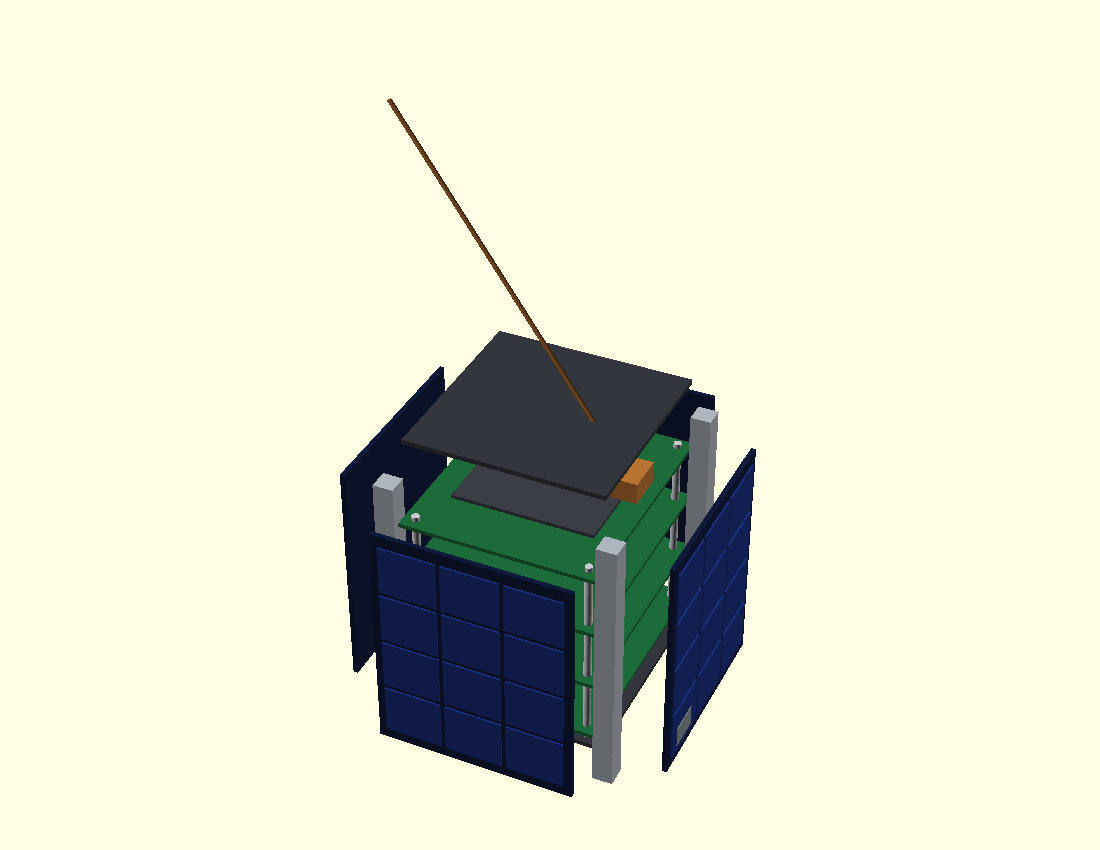
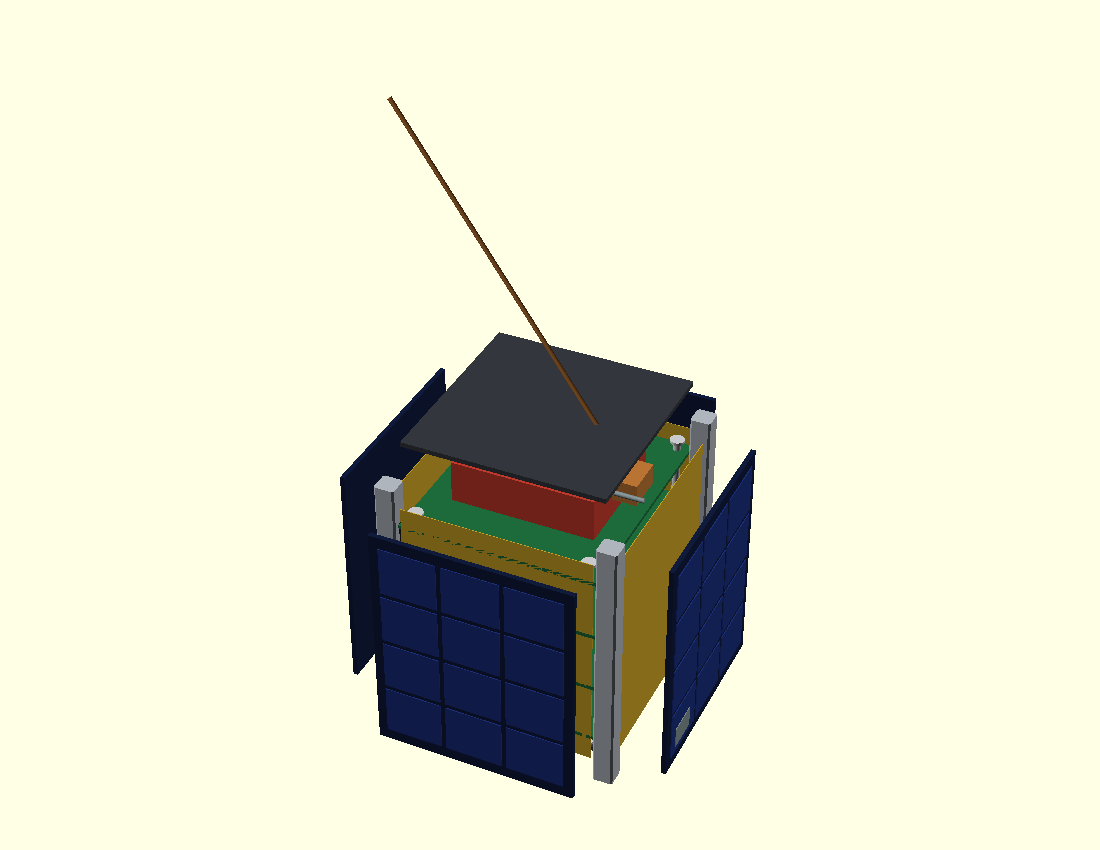
Make CAD mesh watertight and add detail
- overlaps + explicit union: 0 non-manifold edges, 0 degenerate triangles
- chamfered rails, screw heads, harness bundle, MLI liners, deployer hinge
- colour-coded subsystems and cutaway stack render
- cad/check_stl.py + make cad-check for reproducible mesh validation

diff --git a/cad/check_stl.py b/cad/check_stl.py
@@ -1,0 +1,73 @@
+#!/usr/bin/env python3
+"""Check that an ASCII STL is edge-manifold.
+
+Every undirected edge must be shared by exactly two triangles, and no
+triangle may be degenerate. This is the check that matters before printing
+or importing the mesh into a slicer.
+
+usage: check_stl.py file.stl [more.stl ...]
+"""
+
+from __future__ import annotations
+
+import sys
+from collections import Counter
+
+
+def load_ascii_stl(path: str) -> list[tuple[tuple[float, float, float], ...]]:
+    vertices: list[tuple[float, float, float]] = []
+    with open(path, encoding="ascii", errors="replace") as handle:
+        for line in handle:
+            stripped = line.lstrip()
+            if stripped.startswith("vertex"):
+                values = stripped.split()
+                vertices.append(
+                    (round(float(values[1]), 4),
+                     round(float(values[2]), 4),
+                     round(float(values[3]), 4))
+                )
+    if not vertices:
+        raise ValueError(f"{path}: no vertices (binary STL? export ASCII)")
+    return [tuple(vertices[i:i + 3]) for i in range(0, len(vertices), 3)]
+
+
+def check(path: str) -> bool:
+    triangles = load_ascii_stl(path)
+    edges: Counter[tuple[tuple[float, float, float],
+                          tuple[float, float, float]]] = Counter()
+    degenerate = 0
+
+    for tri in triangles:
+        if len(set(tri)) < 3:
+            degenerate += 1
+            continue
+        for a, b in ((0, 1), (1, 2), (2, 0)):
+            edges[tuple(sorted((tri[a], tri[b])))] += 1
+
+    bad = sum(1 for count in edges.values() if count != 2)
+
+    points = [vertex for tri in triangles for vertex in tri]
+    lo = [min(p[i] for p in points) for i in range(3)]
+    hi = [max(p[i] for p in points) for i in range(3)]
+
+    print(f"{path}:")
+    print(f"  triangles     : {len(triangles)}")
+    print(f"  non-manifold  : {bad} edge(s)")
+    print(f"  degenerate    : {degenerate} triangle(s)")
+    print(f"  bbox (mm)     : "
+          f"X {lo[0]:.2f}..{hi[0]:.2f}  "
+          f"Y {lo[1]:.2f}..{hi[1]:.2f}  "
+          f"Z {lo[2]:.2f}..{hi[2]:.2f}")
+
+    return bad == 0 and degenerate == 0
+
+
+def main(argv: list[str]) -> int:
+    if len(argv) < 2:
+        print(__doc__)
+        return 2
+    return 0 if all(check(path) for path in argv[1:]) else 1
+
+
+if __name__ == "__main__":
+    raise SystemExit(main(sys.argv))

diff --git a/cad/README.md b/cad/README.md
@@ -1,31 +1,33 @@
 # 1U CubeSat packaging model (OpenSCAD)
 
 Parametric mechanical envelope for the 1U architecture in the main README.
-It is a **packaging/visual model**, not a structural, thermal or tolerance
-analysis. Wall thicknesses and clearances are indicative.
+
+This is a **packaging/visual model**. Structural and thermal margins require
+FEA and a thermal solver; a CAD envelope cannot answer those questions.
 
 | Parameter | Value |
 |---|---|
 | Envelope | 100 × 100 mm body, 113.5 mm rail length (1U) |
-| Rails | 8.5 × 8.5 mm, four corners |
+| Rails | 8.5 × 8.5 mm, 0.8 mm chamfer, four corners |
 | Body | 100 mm cube between rails |
-| Panels | 83 mm wide, 2 mm thick, body-mounted cells |
+| Panels | 84 mm wide, 2 mm thick, body-mounted cells |
 | Board stack | 82 × 96 mm PCBs on M3 standoffs |
 | Units | `u = 1, 2, 3` (body and rails scale; stack stays 1U) |
 
 ## Views
 
-| Assembly | Exploded | Stack |
+| Assembly | Exploded | Stack cutaway |
 |---|---|---|
 | ![](cubesat.png) | ![](cubesat-exploded.png) | ![](cubesat-stack.png) |
 
-## Render
+## Render and verify
 
 ```bash
 # system package (recommended)
 sudo pacman -S openscad
 
 make cad            # cubesat.stl + cubesat-exploded.stl
+make cad-check      # manifold + degenerate-triangle verification
 make cad-preview    # PNGs (needs a display or xvfb)
 ```
 
@@ -34,35 +36,50 @@ Without installing, the official AppImage works:
 ```bash
 curl -LO https://files.openscad.org/OpenSCAD-2021.01-x86_64.AppImage
 chmod +x OpenSCAD-2021.01-x86_64.AppImage
-./OpenSCAD-2021.01-x86_64.AppImage -o cubesat.stl cad/cubesat.scad
+make cad cad-check OPENSCAD=./OpenSCAD-2021.01-x86_64.AppImage
 ```
+
+The checked meshes are **edge-manifold**: every edge is shared by exactly two
+triangles, with no degenerate triangles. The exploded view is intentionally
+several disjoint shells; that is still a valid manifold.
 
 Useful overrides:
 
 ```bash
-openscad -D 'u=3'                 -o 3u.stl   cad/cubesat.scad
-openscad -D 'explode=0.6'         -o x.stl    cad/cubesat.scad
+openscad -D 'u=3'                 -o 3u.stl    cad/cubesat.scad
+openscad -D 'explode=0.6'         -o x.stl     cad/cubesat.scad
 openscad -D 'show_panels=false'   -o stack.stl cad/cubesat.scad
+openscad -D 'show_mli=false'      -o bare.stl  cad/cubesat.scad
 openscad -D 'show_antenna=false'  -o stowed.stl cad/cubesat.scad
 ```
 
 ## What maps to what
 
-| Model feature | Subsystem |
-|---|---|
-| Four PCB layers in the stack | EPS, OBC (VA41620), S-band/UHF radio, payload |
-| Gold plate on the nadir face | S-band patch antenna |
-| Copper whip on the top corner | deployable UHF telecommand antenna |
-| Dark blue 3×4 cell arrays | body-mounted solar strings |
-| Red tab on +X | remove-before-flight / kill switch |
-| Grey block on +X | access / data port |
+| Model feature | Subsystem | Colour |
+|---|---|---|
+| Board 1 box | EPS | orange |
+| Board 2 box | OBC (VA41620) | blue |
+| Board 3 box + heatsink | S-band / UHF radio | purple + grey |
+| Board 4 box | payload | red |
+| Green plates | PCBs | green |
+| Gold plate on the nadir face | S-band patch antenna | gold |
+| Copper whip on the top corner | deployable UHF telecommand antenna | copper |
+| Dark blue 3×4 arrays | body-mounted solar strings | navy |
+| Gold liners inside the panels | MLI thermal blanket | gold |
+| Black tubes in the -X/-Y corner | harness bundle | black |
+| Red tab on +X | remove-before-flight switch | red |
+| Grey block on +X | access / data port | grey |
 
-## Caveats
+## What is still simplified
 
-- The STL is a union of packaging parts and is not guaranteed manifold at
-  every panel/rail interface; run a mesh repair pass before printing.
-- No fasteners, harness, MLI, or deployer mechanisms are modelled.
-- Rail chamfers and the 6.5 mm rail cut-outs from the CubeSat Design
-  Specification are omitted for clarity.
-- The internal stack is illustrative: real boards need a keep-out and
-  harness routing check against the rails.
+- **No structural/thermal analysis.** These are geometry only; run FEA and a
+  thermal model before trusting any margin.
+- Fasteners are simplified screw heads, not threaded hardware.
+- The harness is a two-cable bundle, not a routed, connectorised harness.
+- MLI is a flat liner without seams, strapping or kapton layering.
+- The deployer shows its housing, hinge pin and burn wire; deployment
+  kinematics and the stowed whip coil are not modelled.
+- The 0.8 mm rail chamfer is modelled; the CubeSat Design Specification rail
+  cut-outs and fastening holes are not.
+- The internal stack is illustrative: real boards need keep-out, connector
+  and harness routing checks against the rails.

diff --git a/README.md b/README.md
@@ -159,6 +159,7 @@ caveats (it is a packaging model, not structural analysis).
 
 ```bash
 make cad            # cubesat.stl + cubesat-exploded.stl
+make cad-check      # watertight: 0 non-manifold edges, 0 degenerate triangles
 make cad-preview    # assembly / exploded / stack PNGs
 ```
 
